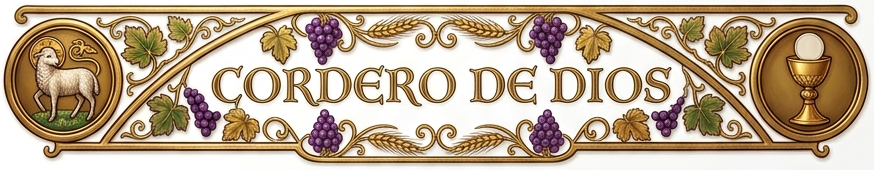
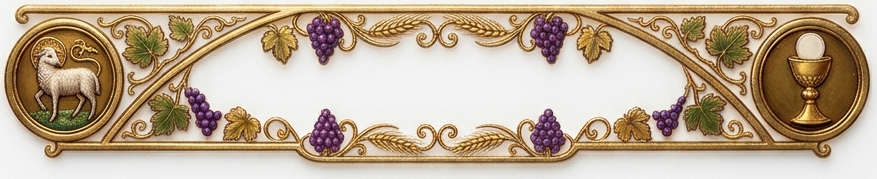
feat(pdf): guirnalda nueva sin texto horneado + titulo encajado en el ovalo blanco
Reemplaza el banner de seccion por una guirnalda con el ovalo central en
blanco (recortada del lienzo). Se elimina el vaciado artificial: el ovalo se
vuelve transparente por luminancia y el titulo del momento se centra ahi,
dimensionado al espacio en blanco (~55% ancho x 51% alto). Los medallones
(Cordero / Caliz), marco dorado y racimos quedan intactos alrededor del texto.
Mantiene 1 cm de alto a sangre y portada sin guirnalda.

diff --git a/src/utils/cantoralPDFGenerator.ts b/src/utils/cantoralPDFGenerator.ts
@@ -4,7 +4,6 @@ import { PublishedCantoral, Song } from '../types';
 import { getCurrentLiturgicalSeason } from './liturgicalSeason';
 import { getChannelUrl } from '../services/youtube';
 import logoStellaMaris from 'figma:asset/44767b9307cb7c59bba6fc5a03063ff51488551e.png';
-import eucharisticWreath from '../assets/eucharistic-wreath.jpg';
 import sectionArch from '../assets/section-arch.png';
 
 interface PDFGeneratorOptions {
@@ -240,20 +239,15 @@ export async function generateCantoralPDF(options: PDFGeneratorOptions): Promise
   // Logo redondo de la app para el encabezado (si falla la carga, se usa el texto).
   const logo = await loadCircularLogo(logoStellaMaris);
 
-  // Corona eucarística (portada) y arco de sección, ambos tintados al color
-  // litúrgico. El arco lleva su propio texto al centro: se vacía esa zona para
-  // escribir encima el título del momento de la Misa.
-  const wreathImg = await loadImage(eucharisticWreath);
-  const wreathSquare = wreathImg ? tintWreath(wreathImg, colors.primary, { sx: 232, sy: 0, sw: 559, sh: 559 }) : null;
+  // Guirnalda de sección (banner horizontal), tintada al color litúrgico. El asset trae
+  // el óvalo central EN BLANCO (sin texto horneado): el recorte por luminancia lo deja
+  // transparente y escribimos ahí el título del momento. No hace falta vaciar ninguna
+  // banda; los medallones (Cordero / Cáliz), el marco dorado y los racimos de uvas
+  // quedan intactos alrededor del texto.
   const archImg = await loadImage(sectionArch);
-  // El asset ya viene recortado a SOLO la guirnalda con el texto embebido, así que
-  // se usa completo. Se vacía la banda central (donde dice "TITULO DEL CANTO") para
-  // escribir encima el momento de la Misa.
   const archTinted = archImg
     ? tintWreath(archImg, colors.primary,
-        { sx: 0, sy: 0, sw: archImg.naturalWidth, sh: archImg.naturalHeight }, false,
-        // Banda central vaciada más ancha → más espacio para el título del momento.
-        { x0: 0.12, y0: 0.30, x1: 0.88, y1: 0.66 })
+        { sx: 0, sy: 0, sw: archImg.naturalWidth, sh: archImg.naturalHeight })
     : null;
 
   // Header en cada página
@@ -317,15 +311,8 @@ export async function generateCantoralPDF(options: PDFGeneratorOptions): Promise
   // ─── PORTADA ───
   addPageHeader();
 
-  // Corona eucarística como pieza central (color litúrgico predominante).
-  if (wreathSquare) {
-    const wW = 84;
-    const wH = wW * (wreathSquare.h / wreathSquare.w);
-    pdf.addImage(wreathSquare.dataUrl, 'PNG', pageW / 2 - wW / 2, 16, wW, wH);
-    y = 16 + wH + 10;
-  } else {
-    y = 64;
-  }
+  // Portada sin guirnalda/adorno: solo el título y los datos de la Misa.
+  y = 46;
 
   pdf.setFont('helvetica', 'bold');
   pdf.setFontSize(22);
@@ -389,28 +376,27 @@ export async function generateCantoralPDF(options: PDFGeneratorOptions): Promise
   );
 
   sortedCategories.forEach((category) => {
-    // Cabecera de categoría: arco eucarístico (tintado al color litúrgico) con el
-    // título del momento de la Misa centrado en su hueco (donde la imagen original
-    // dice "MISSA DE ANGELIS").
+    // Cabecera de categoría: guirnalda eucarística (tintada al color litúrgico) con el
+    // título del momento de la Misa centrado en el óvalo blanco del banner.
     const label = cleanText(category).toUpperCase();
 
     if (archTinted) {
       const aW = pageW; // guirnalda a sangre: ocupa el ancho COMPLETO de la hoja (borde a borde)
-      // Banner un 25% más angosto (más fino verticalmente) → deja más espacio para la letra.
-      const aH = aW * (archTinted.h / archTinted.w) * 0.75;
+      const aH = 10;    // 1 cm de grosor: banner fino y poco invasivo
       needPage(aH + 6);
       // Reusar la misma imagen (alias) para no inflar el PDF en cada sección.
       pdf.addImage(archTinted.dataUrl, 'PNG', 0, y, aW, aH, 'arco-seccion', 'FAST');
-      // Título adaptativo: arranca grande y se achica solo si no entra en la banda
-      // central (dimensionada para el título más largo, "CORDERO DE DIOS").
+      // Título centrado en el óvalo blanco (mide ~55% del ancho × ~51% del alto del
+      // banner, centrado). Arranca a un tamaño que entra en el alto del óvalo y se achica
+      // solo si no cabe a lo ancho, para que quede proporcionado al espacio en blanco.
       pdf.setFont('helvetica', 'bold');
-      let fs = 30;
+      let fs = 15;
       pdf.setFontSize(fs);
-      const maxTitleW = aW * 0.68;
-      while (pdf.getTextWidth(label) > maxTitleW && fs > 12) { fs -= 0.5; pdf.setFontSize(fs); }
+      const maxTitleW = aW * 0.50; // ancho útil del óvalo (con margen ante las uvas)
+      while (pdf.getTextWidth(label) > maxTitleW && fs > 8) { fs -= 0.5; pdf.setFontSize(fs); }
       pdf.setTextColor(...colors.primary);
-      pdf.text(label, pageW / 2, y + aH * 0.58, { align: 'center' });
-      y += aH + 2;
+      pdf.text(label, pageW / 2, y + aH * 0.51, { align: 'center', baseline: 'middle' });
+      y += aH + 4;
     } else {
       // Respaldo si la imagen no carga: título centrado con líneas a los lados.
       pdf.setFont('helvetica', 'bold');
